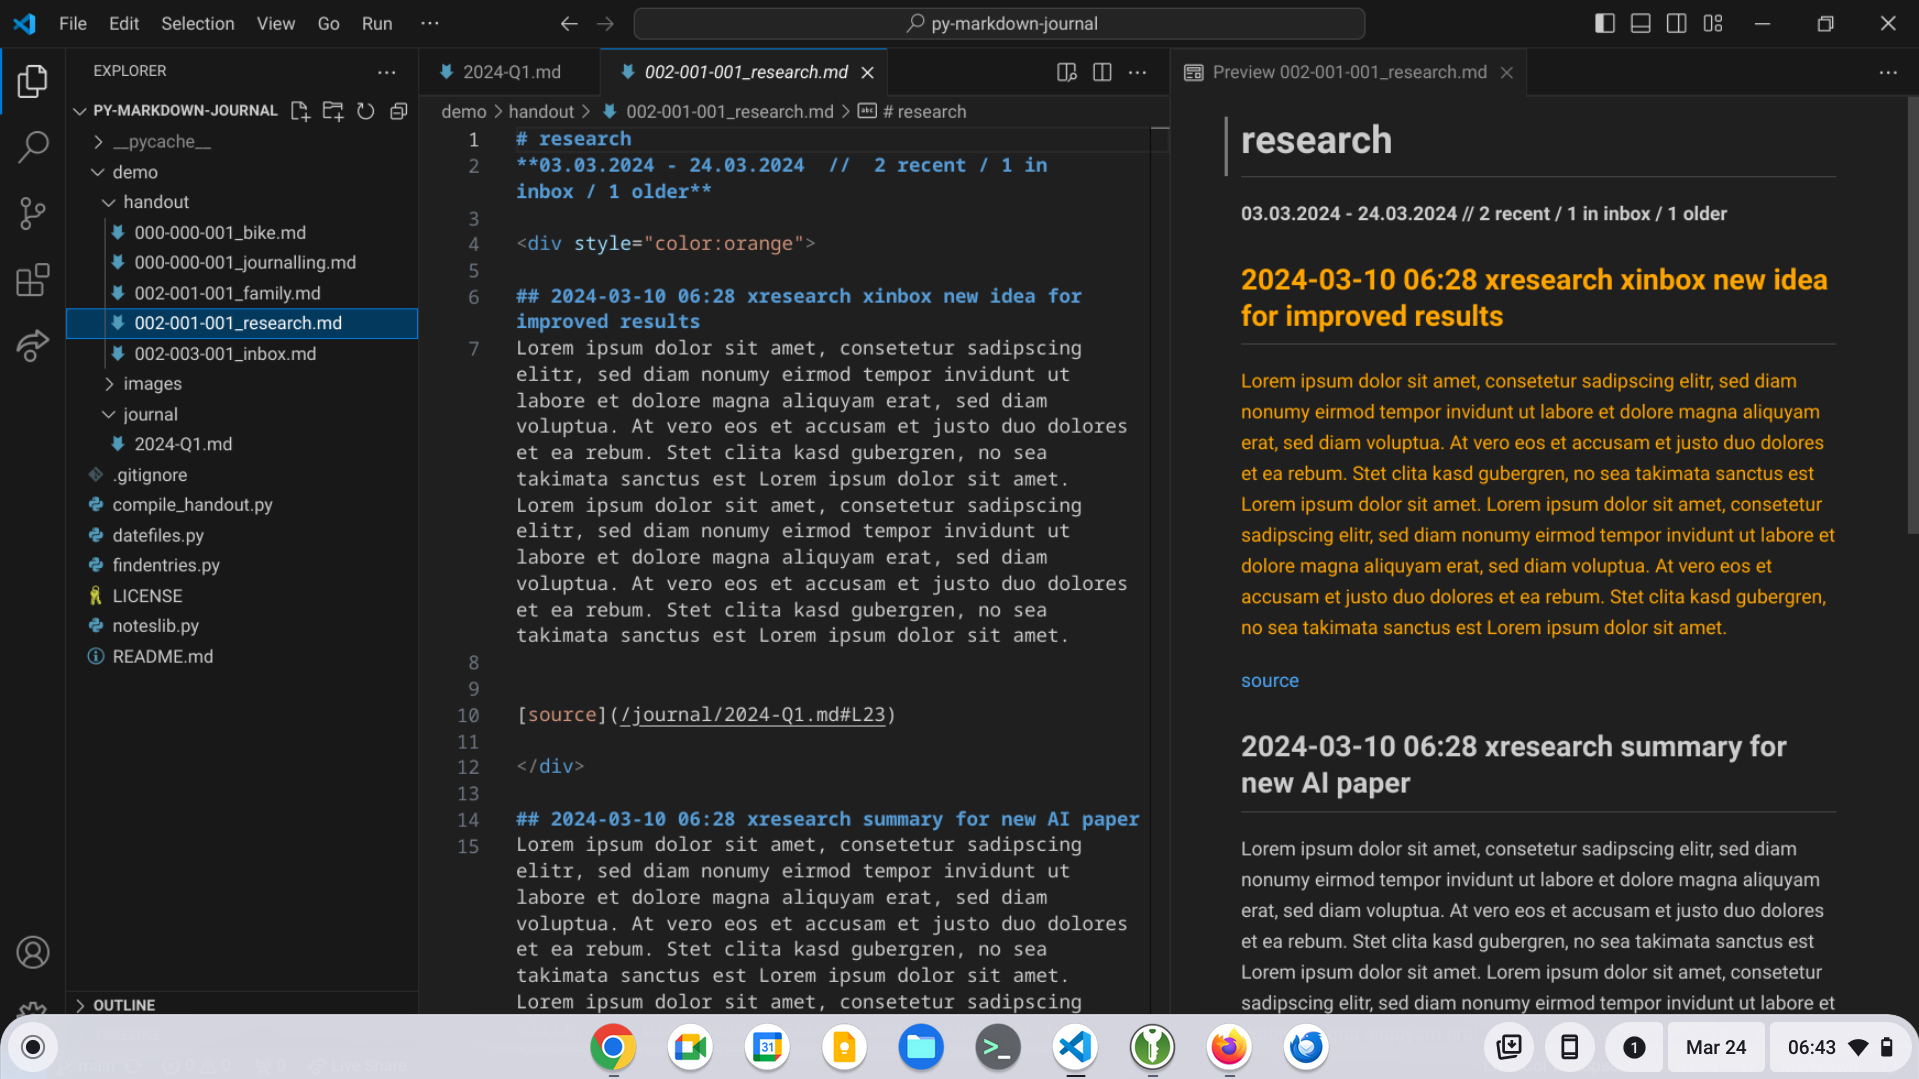
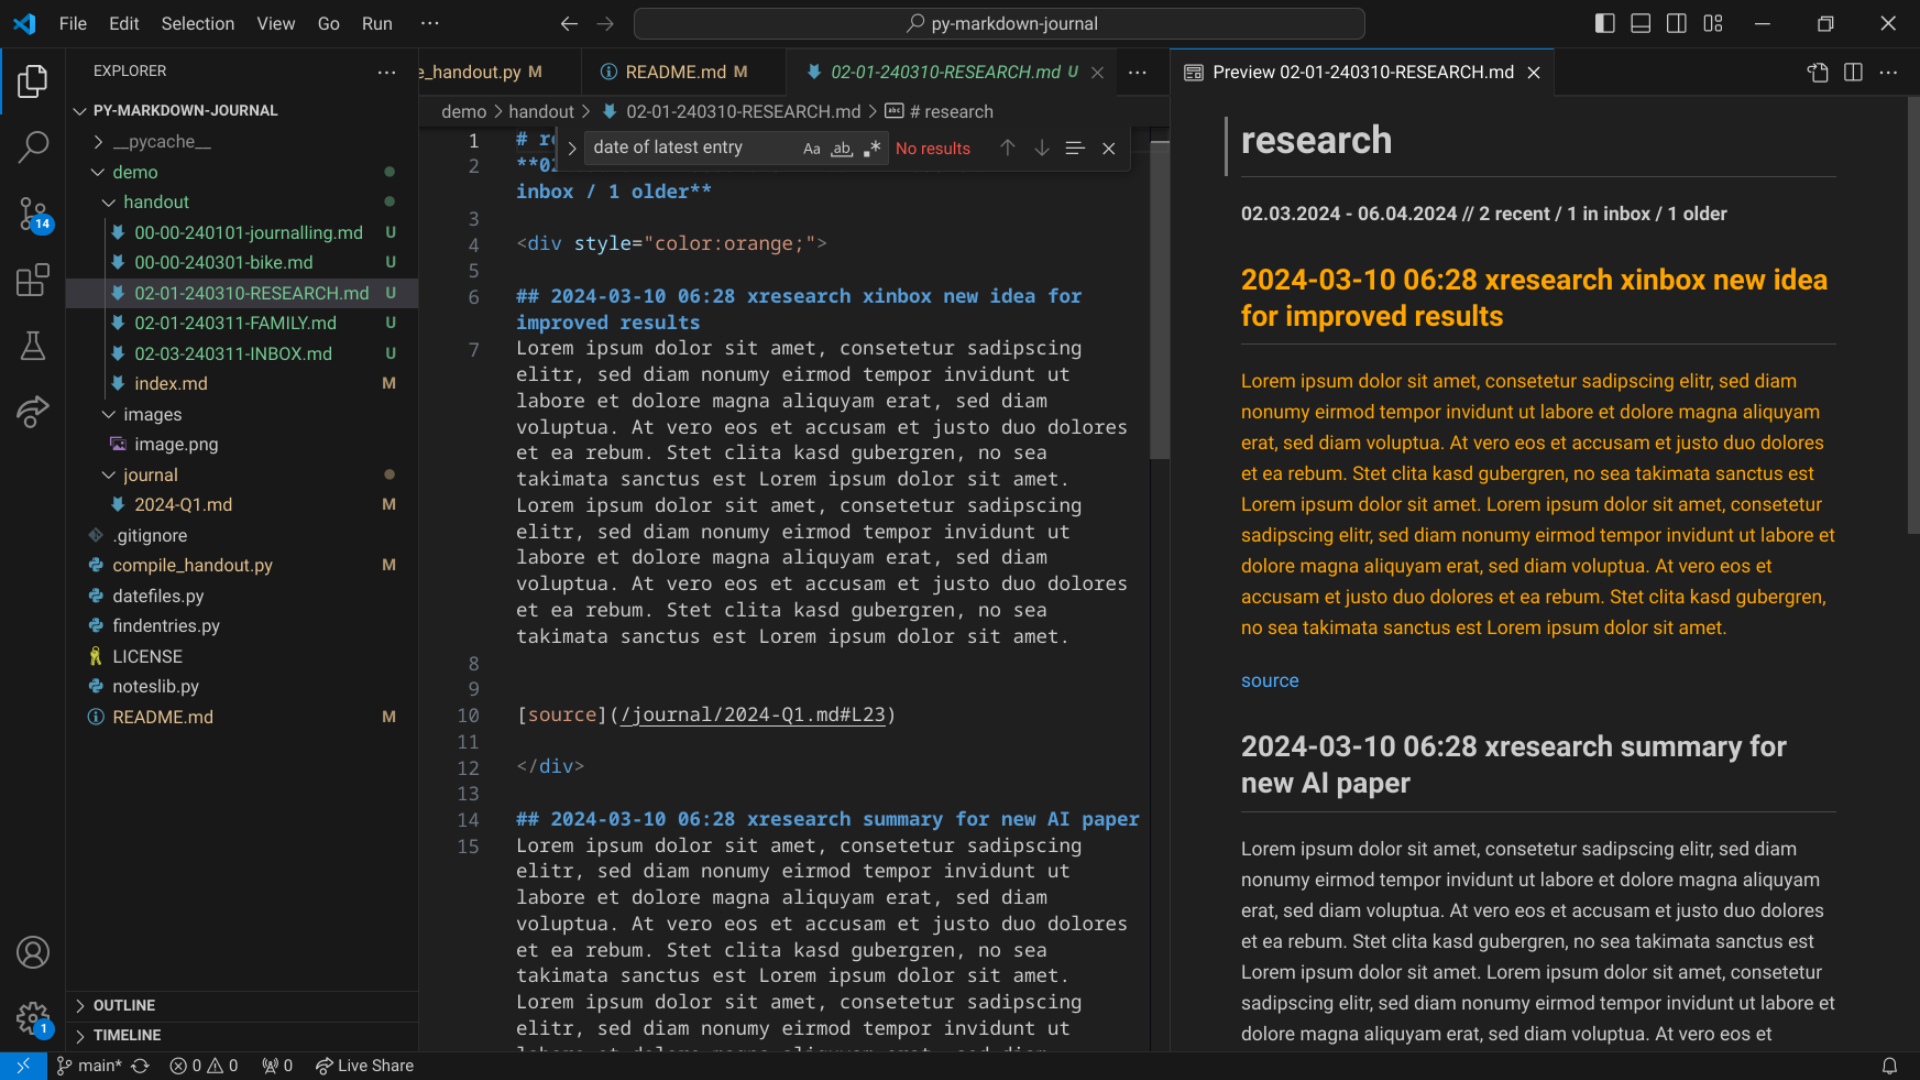
code improvements and simplifications

diff --git a/compile_handout.py b/compile_handout.py
@@ -100,7 +100,8 @@ if __name__ == "__main__":
                                            "in inbox": 0,
                                            "older": 0,
                                            "filepath": None,
-                                           "filenameprefix": None}
+                                           "filepathstr": "",
+                                           "date of latest entry": ""}
                     if inInbox:
                         tagsMetadata[t]["in inbox"] = tagsMetadata[t]["in inbox"] + 1
                     if e["date"] < afterDate:
@@ -110,12 +111,14 @@ if __name__ == "__main__":
             entriesDict = None
 
     for k, v in tags.items():
-        tags[k] = sorted(v, key=lambda ii: ii["date"], reverse=True)
+        v = sorted(v, key=lambda ii: ii["date"], reverse=True)
+        tags[k] = v
+        tagsMetadata[k]["date of latest entry"] = "" if len(v) == 0 else v[0]['date'].strftime("%y%m%d")
 
     #tags = OrderedDict(sorted(tags.items(), key=lambda xy: None if len(xy[1]) == 0 else xy[1][0]["date"], reverse=True))
     oldertags = []
 
-    print("filename prefix: recent - in inbox - older")
+    print("filename prefix: recent - in inbox - date of last entry")
     for k, v in tags.items():
         if len(v) == 0 or (k != INBOX_TAG and (ignoreOlderThanDate is not None and v[0]["date"] < ignoreOlderThanDate)):
             oldertags.append(k)
@@ -134,14 +137,15 @@ if __name__ == "__main__":
         if tagsMetadata[k]["in inbox"] > 0:
             filename = filename.upper()
 
-        # ("" if len(v) == 0 else v[0]['date'].strftime("%Y%m%d") + "-") + \
+        # f"{tagsMetadata[k]['older']:03d}" + "_"
         # ("" if len(v) == 0 else ("{:03d}".format((today - v[0]['date']).days)) + "-") + \
         filenameprefix = f"{tagsMetadata[k]['recent']:02d}" + "-" + \
                          f"{tagsMetadata[k]['in inbox']:02d}" + "-" + \
-                         f"{tagsMetadata[k]['older']:03d}" + "_"
+                         ("" if len(tagsMetadata[k]['date of latest entry']) == 0 else tagsMetadata[k]['date of latest entry'] + "-")
 
         filepath = folderpath / (filenameprefix + filename + fileextension)
         tagsMetadata[k]["filepath"] = filepath
+        tagsMetadata[k]["filepathstr"] = filepath.relative_to(notebookpath).as_posix()
         # print("/" + filepath.relative_to(notebookpath).as_posix())
         filecontent = ["# " + k + "\n**" + afterDate.strftime("%d.%m.%Y") + " - " \
                        + today.strftime("%d.%m.%Y") + "  //  " \
@@ -209,19 +213,18 @@ if __name__ == "__main__":
         with open(indexpath, "w", encoding="utf-8") as indexfile:
             indexfile.write("<!DOCTYPE html>\n\n<html><head><meta charset=\"UTF-8\"><title>index</title></head><body>\n")
             indexfile.write("<h1>index</h1>\n<table><tr><th>tag</th><th>recent</th><th>in inbox</th><th>older</th>\n")
-            for k, v in sorted(tags.items(), key=lambda kvk: "" if tagsMetadata[kvk[0]]["filepath"] is None else tagsMetadata[kvk[0]]["filepath"].relative_to(notebookpath).as_posix()):
+            for k, v in sorted(tags.items(), key=lambda kvk: tagsMetadata[kvk[0]]["filepathstr"]):
                 if tagsMetadata[k]["filepath"] is not None:
                     indexfile.write("<tr><td><a href=\"" + tagsMetadata[k]["filepath"].relative_to(handoutpath).as_posix() + "\">" + k + "</a></td><td>" + str(tagsMetadata[k]["recent"]) + "</td><td>" + str(tagsMetadata[k]["in inbox"]) + "</td><td>" + str(tagsMetadata[k]["older"]) + "</td></tr>\n")
             indexfile.write("</table>\n</body></html>\n")
         indexpath.chmod(0o444)
-        print("index file: " + indexpath.as_posix())
     else:
         indexpath = handoutpath / "index.md"
         with open(indexpath, "w", encoding="utf-8") as indexfile:
             indexfile.write("# index\n\n")
             indexfile.write("| tag                                                                    | recent | in inbox | older |\n")
             indexfile.write("| ---------------------------------------------------------------------- | ------ | -------- | ----- |\n")
-            for k, v in sorted(tags.items(), key=lambda kvk: "" if tagsMetadata[kvk[0]]["filepath"] is None else tagsMetadata[kvk[0]]["filepath"].relative_to(notebookpath).as_posix()):
+            for k, v in sorted(tags.items(), key=lambda kvk: tagsMetadata[kvk[0]]["filepathstr"]):
                 if tagsMetadata[k]["filepath"] is not None:
                     indexfile.write("| " +
                                     ("{:70}".format("[" + k + "](" + tagsMetadata[k]["filepath"].relative_to(handoutpath).as_posix() + ")")) +
@@ -229,8 +232,8 @@ if __name__ == "__main__":
                                     " | " + ("{:>8}".format(tagsMetadata[k]["in inbox"])) +
                                     " | " + ("{:>5}".format(tagsMetadata[k]["older"])) + " |\n")
         indexpath.chmod(0o444)
-        print("index file: " + indexpath.as_posix())
 
+    print("index file: " + indexpath.as_posix())
     print("handout folder: " + handoutpath.as_posix())
 
     writeProtectFolder(thepath=handoutpath)

diff --git a/demo/handout/02-01-240310-RESEARCH.md b/demo/handout/02-01-240310-RESEARCH.md
@@ -1,18 +1,5 @@
-# inbox
-**30.03.2024 - 06.04.2024  //  0 recent / 3 in inbox / 3 older**
-
-<details style="color:gray; border:2px solid; padding: 1em;">
-  <summary>inbox: older entries</summary>
-
-<div style="color:orange;">
-
-## 2024-03-11 06:28 xfamily xinbox
-Lorem ipsum dolor sit amet, consetetur sadipscing elitr, sed diam nonumy eirmod tempor invidunt ut labore et dolore magna aliquyam erat, sed diam voluptua. At vero eos et accusam et justo duo dolores et ea rebum. Stet clita kasd gubergren, no sea takimata sanctus est Lorem ipsum dolor sit amet. Lorem ipsum dolor sit amet, consetetur sadipscing elitr, sed diam nonumy eirmod tempor invidunt ut labore et dolore magna aliquyam erat, sed diam voluptua. At vero eos et accusam et justo duo dolores et ea rebum. Stet clita kasd gubergren, no sea takimata sanctus est Lorem ipsum dolor sit amet.
-
-
-[source](/journal/2024-Q1.md#L29)
-
-</div>
+# research
+**02.03.2024 - 06.04.2024  //  2 recent / 1 in inbox / 1 older**
 
 <div style="color:orange;">
 
@@ -24,17 +11,20 @@ Lorem ipsum dolor sit amet, consetetur sadipscing elitr, sed diam nonumy eirmod 
 
 </div>
 
-<div style="color:orange;">
-
-## 20240203 xinbox meeting with boss
-- important things to do:
-  - write technical concept for requirements engineering
-  - send mail to Robert
+## 2024-03-10 06:28 xresearch summary for new AI paper
+Lorem ipsum dolor sit amet, consetetur sadipscing elitr, sed diam nonumy eirmod tempor invidunt ut labore et dolore magna aliquyam erat, sed diam voluptua. At vero eos et accusam et justo duo dolores et ea rebum. Stet clita kasd gubergren, no sea takimata sanctus est Lorem ipsum dolor sit amet. Lorem ipsum dolor sit amet, consetetur sadipscing elitr, sed diam nonumy eirmod tempor invidunt ut labore et dolore magna aliquyam erat, sed diam voluptua. At vero eos et accusam et justo duo dolores et ea rebum. Stet clita kasd gubergren, no sea takimata sanctus est Lorem ipsum dolor sit amet.
 
 
-[source](/journal/2024-Q1.md#L6)
+[source](/journal/2024-Q1.md#L26)
 
-</div>
+<details style="color:gray; border:2px solid; padding: 1em;">
+  <summary>research: older entries</summary>
+
+## 2024-02-24 06:28 xresearch phone call with Adam
+Lorem ipsum dolor sit amet, consetetur sadipscing elitr, sed diam nonumy eirmod tempor invidunt ut labore et dolore magna aliquyam erat, sed diam voluptua. At vero eos et accusam et justo duo dolores et ea rebum. Stet clita kasd gubergren, no sea takimata sanctus est Lorem ipsum dolor sit amet. Lorem ipsum dolor sit amet, consetetur sadipscing elitr, sed diam nonumy eirmod tempor invidunt ut labore et dolore magna aliquyam erat, sed diam voluptua. At vero eos et accusam et justo duo dolores et ea rebum. Stet clita kasd gubergren, no sea takimata sanctus est Lorem ipsum dolor sit amet.
+
+
+[source](/journal/2024-Q1.md#L11)
 
 </details>
 

diff --git a/demo/handout/02-01-240311-FAMILY.md b/demo/handout/02-01-240311-FAMILY.md
@@ -1,30 +1,30 @@
-# research
-**30.03.2024 - 06.04.2024  //  0 recent / 1 in inbox / 3 older**
-
-<details style="color:gray; border:2px solid; padding: 1em;">
-  <summary>research: older entries</summary>
+# family
+**02.03.2024 - 06.04.2024  //  2 recent / 1 in inbox / 1 older**
 
 <div style="color:orange;">
 
-## 2024-03-10 06:28 xresearch xinbox new idea for improved results
+## 2024-03-11 06:28 xfamily xinbox
 Lorem ipsum dolor sit amet, consetetur sadipscing elitr, sed diam nonumy eirmod tempor invidunt ut labore et dolore magna aliquyam erat, sed diam voluptua. At vero eos et accusam et justo duo dolores et ea rebum. Stet clita kasd gubergren, no sea takimata sanctus est Lorem ipsum dolor sit amet. Lorem ipsum dolor sit amet, consetetur sadipscing elitr, sed diam nonumy eirmod tempor invidunt ut labore et dolore magna aliquyam erat, sed diam voluptua. At vero eos et accusam et justo duo dolores et ea rebum. Stet clita kasd gubergren, no sea takimata sanctus est Lorem ipsum dolor sit amet.
 
 
-[source](/journal/2024-Q1.md#L23)
+[source](/journal/2024-Q1.md#L29)
 
 </div>
 
-## 2024-03-10 06:28 xresearch summary for new AI paper
+## 2024-03-03 06:28 xfamily idea for next birthday party
 Lorem ipsum dolor sit amet, consetetur sadipscing elitr, sed diam nonumy eirmod tempor invidunt ut labore et dolore magna aliquyam erat, sed diam voluptua. At vero eos et accusam et justo duo dolores et ea rebum. Stet clita kasd gubergren, no sea takimata sanctus est Lorem ipsum dolor sit amet. Lorem ipsum dolor sit amet, consetetur sadipscing elitr, sed diam nonumy eirmod tempor invidunt ut labore et dolore magna aliquyam erat, sed diam voluptua. At vero eos et accusam et justo duo dolores et ea rebum. Stet clita kasd gubergren, no sea takimata sanctus est Lorem ipsum dolor sit amet.
 
 
-[source](/journal/2024-Q1.md#L26)
+[source](/journal/2024-Q1.md#L20)
 
-## 2024-02-24 06:28 xresearch phone call with Adam
+<details style="color:gray; border:2px solid; padding: 1em;">
+  <summary>family: older entries</summary>
+
+## 2024-02-26 06:28 xfamily phone call with wife
 Lorem ipsum dolor sit amet, consetetur sadipscing elitr, sed diam nonumy eirmod tempor invidunt ut labore et dolore magna aliquyam erat, sed diam voluptua. At vero eos et accusam et justo duo dolores et ea rebum. Stet clita kasd gubergren, no sea takimata sanctus est Lorem ipsum dolor sit amet. Lorem ipsum dolor sit amet, consetetur sadipscing elitr, sed diam nonumy eirmod tempor invidunt ut labore et dolore magna aliquyam erat, sed diam voluptua. At vero eos et accusam et justo duo dolores et ea rebum. Stet clita kasd gubergren, no sea takimata sanctus est Lorem ipsum dolor sit amet.
 
 
-[source](/journal/2024-Q1.md#L11)
+[source](/journal/2024-Q1.md#L14)
 
 </details>
 

diff --git a/demo/handout/02-03-240311-INBOX.md b/demo/handout/02-03-240311-INBOX.md
@@ -1,8 +1,5 @@
-# family
-**30.03.2024 - 06.04.2024  //  0 recent / 1 in inbox / 3 older**
-
-<details style="color:gray; border:2px solid; padding: 1em;">
-  <summary>family: older entries</summary>
+# inbox
+**02.03.2024 - 06.04.2024  //  2 recent / 3 in inbox / 1 older**
 
 <div style="color:orange;">
 
@@ -14,17 +11,30 @@ Lorem ipsum dolor sit amet, consetetur sadipscing elitr, sed diam nonumy eirmod 
 
 </div>
 
-## 2024-03-03 06:28 xfamily idea for next birthday party
+<div style="color:orange;">
+
+## 2024-03-10 06:28 xresearch xinbox new idea for improved results
 Lorem ipsum dolor sit amet, consetetur sadipscing elitr, sed diam nonumy eirmod tempor invidunt ut labore et dolore magna aliquyam erat, sed diam voluptua. At vero eos et accusam et justo duo dolores et ea rebum. Stet clita kasd gubergren, no sea takimata sanctus est Lorem ipsum dolor sit amet. Lorem ipsum dolor sit amet, consetetur sadipscing elitr, sed diam nonumy eirmod tempor invidunt ut labore et dolore magna aliquyam erat, sed diam voluptua. At vero eos et accusam et justo duo dolores et ea rebum. Stet clita kasd gubergren, no sea takimata sanctus est Lorem ipsum dolor sit amet.
 
 
-[source](/journal/2024-Q1.md#L20)
+[source](/journal/2024-Q1.md#L23)
 
-## 2024-02-26 06:28 xfamily phone call with wife
-Lorem ipsum dolor sit amet, consetetur sadipscing elitr, sed diam nonumy eirmod tempor invidunt ut labore et dolore magna aliquyam erat, sed diam voluptua. At vero eos et accusam et justo duo dolores et ea rebum. Stet clita kasd gubergren, no sea takimata sanctus est Lorem ipsum dolor sit amet. Lorem ipsum dolor sit amet, consetetur sadipscing elitr, sed diam nonumy eirmod tempor invidunt ut labore et dolore magna aliquyam erat, sed diam voluptua. At vero eos et accusam et justo duo dolores et ea rebum. Stet clita kasd gubergren, no sea takimata sanctus est Lorem ipsum dolor sit amet.
+</div>
+
+<details style="color:gray; border:2px solid; padding: 1em;">
+  <summary>inbox: older entries</summary>
+
+<div style="color:orange;">
+
+## 20240203 xinbox meeting with boss
+- important things to do:
+  - write technical concept for requirements engineering
+  - send mail to Robert
 
 
-[source](/journal/2024-Q1.md#L14)
+[source](/journal/2024-Q1.md#L6)
+
+</div>
 
 </details>
 

diff --git a/demo/handout/index.md b/demo/handout/index.md
@@ -2,8 +2,8 @@
 
 | tag                                                                    | recent | in inbox | older |
 | ---------------------------------------------------------------------- | ------ | -------- | ----- |
-| [bike](00-00-001_bike.md)                                              |      0 |        0 |     1 |
-| [journalling](00-00-001_journalling.md)                                |      0 |        0 |     1 |
-| [family](00-01-003_FAMILY.md)                                          |      0 |        1 |     3 |
-| [research](00-01-003_RESEARCH.md)                                      |      0 |        1 |     3 |
-| [inbox](00-03-003_INBOX.md)                                            |      0 |        3 |     3 |
+| [journalling](00-00-240101-journalling.md)                             |      0 |        0 |     1 |
+| [bike](00-00-240301-bike.md)                                           |      0 |        0 |     1 |
+| [research](02-01-240310-RESEARCH.md)                                   |      2 |        1 |     1 |
+| [family](02-01-240311-FAMILY.md)                                       |      2 |        1 |     1 |
+| [inbox](02-03-240311-INBOX.md)                                         |      2 |        3 |     1 |

diff --git a/demo/handout/00-00-240101-journalling.md b/demo/handout/00-00-240101-journalling.md
@@ -1,10 +1,10 @@
 # journalling
-**30.03.2024 - 06.04.2024  //  0 recent / 0 in inbox / 1 older**
+**02.03.2024 - 06.04.2024  //  0 recent / 0 in inbox / 1 older**
 
 <details style="color:gray; border:2px solid; padding: 1em;">
   <summary>journalling: older entries</summary>
 
-## 20240201 xjournalling telephone call with expert group
+## 20240101 xjournalling telephone call with expert group
 - the following ideas have been discussed:
   - the new journalling method improves productivity by 10%
   - ...

diff --git a/README.md b/README.md
@@ -34,4 +34,4 @@ Now, run the compile\_handout script and it will generate a nicely formatted sum
 ![the generated handout files, opened in VS code](demo/images/image.png)
 
 Prefix of generated file names is as follows:
-"Number of recent entries in that file" - "number of entries in inbox" - "number of older entries"
+"Number of recent entries in that file" - "number of entries in inbox" - "date of last entry (format: %y%m%d)"

diff --git a/demo/handout/00-00-240301-bike.md b/demo/handout/00-00-240301-bike.md
@@ -1,5 +1,5 @@
 # bike
-**30.03.2024 - 06.04.2024  //  0 recent / 0 in inbox / 1 older**
+**02.03.2024 - 06.04.2024  //  0 recent / 0 in inbox / 1 older**
 
 <details style="color:gray; border:2px solid; padding: 1em;">
   <summary>bike: older entries</summary>

diff --git a/demo/journal/2024-Q1.md b/demo/journal/2024-Q1.md
@@ -1,4 +1,4 @@
-## 20240201 xjournalling telephone call with expert group
+## 20240101 xjournalling telephone call with expert group
 - the following ideas have been discussed:
   - the new journalling method improves productivity by 10%
   - ...
